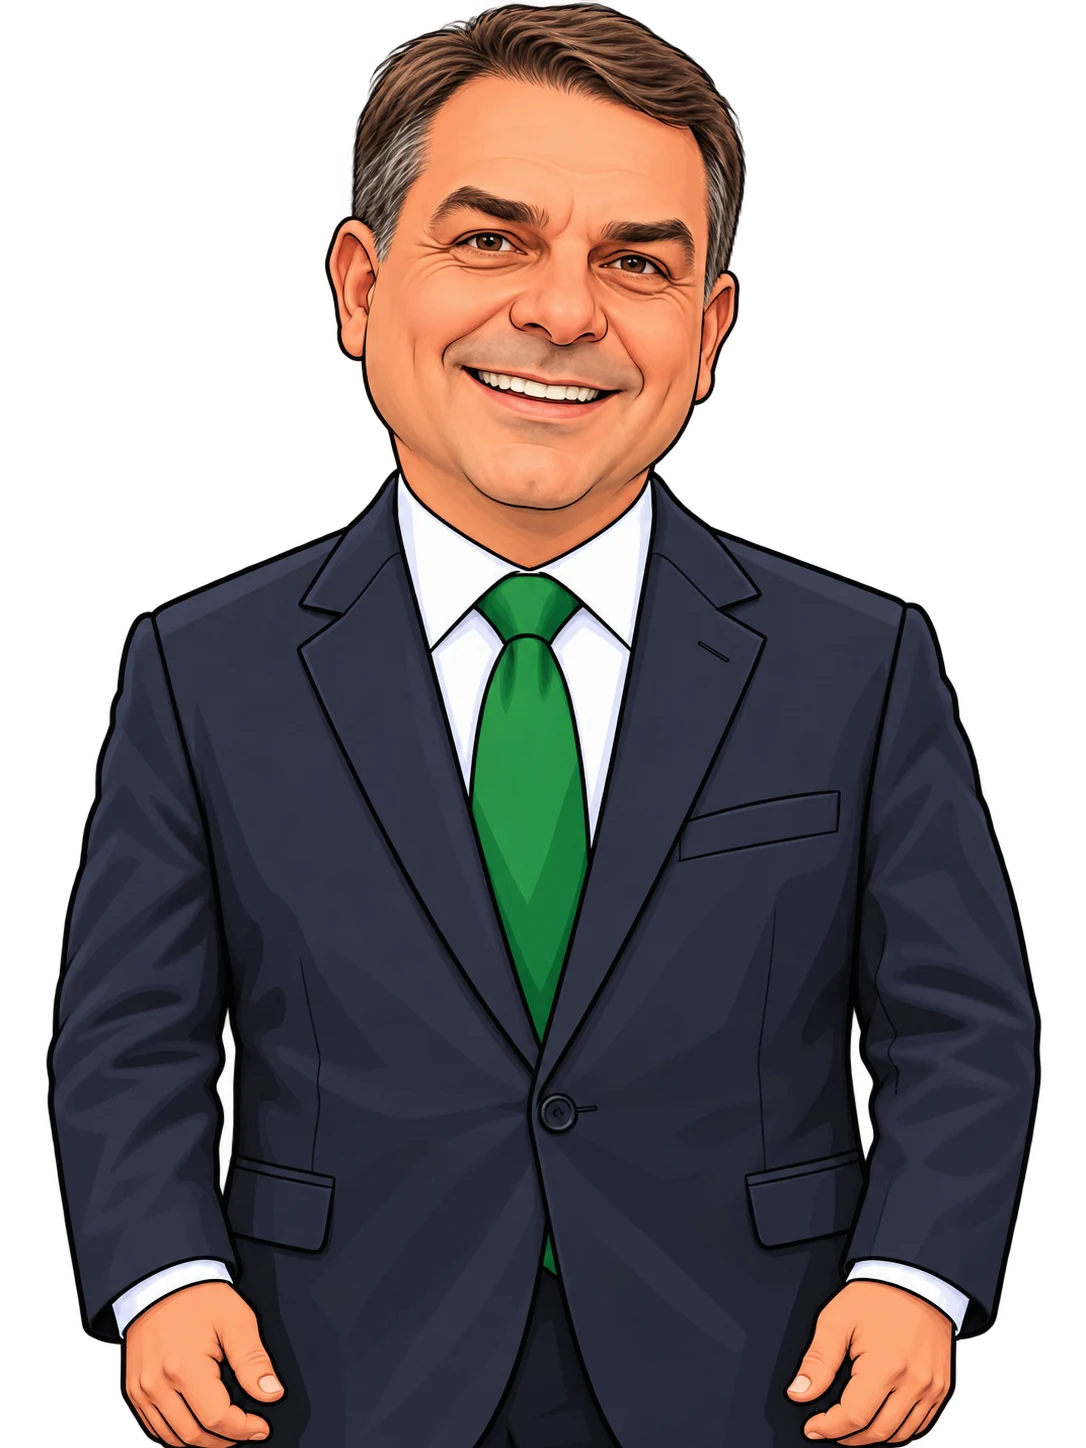
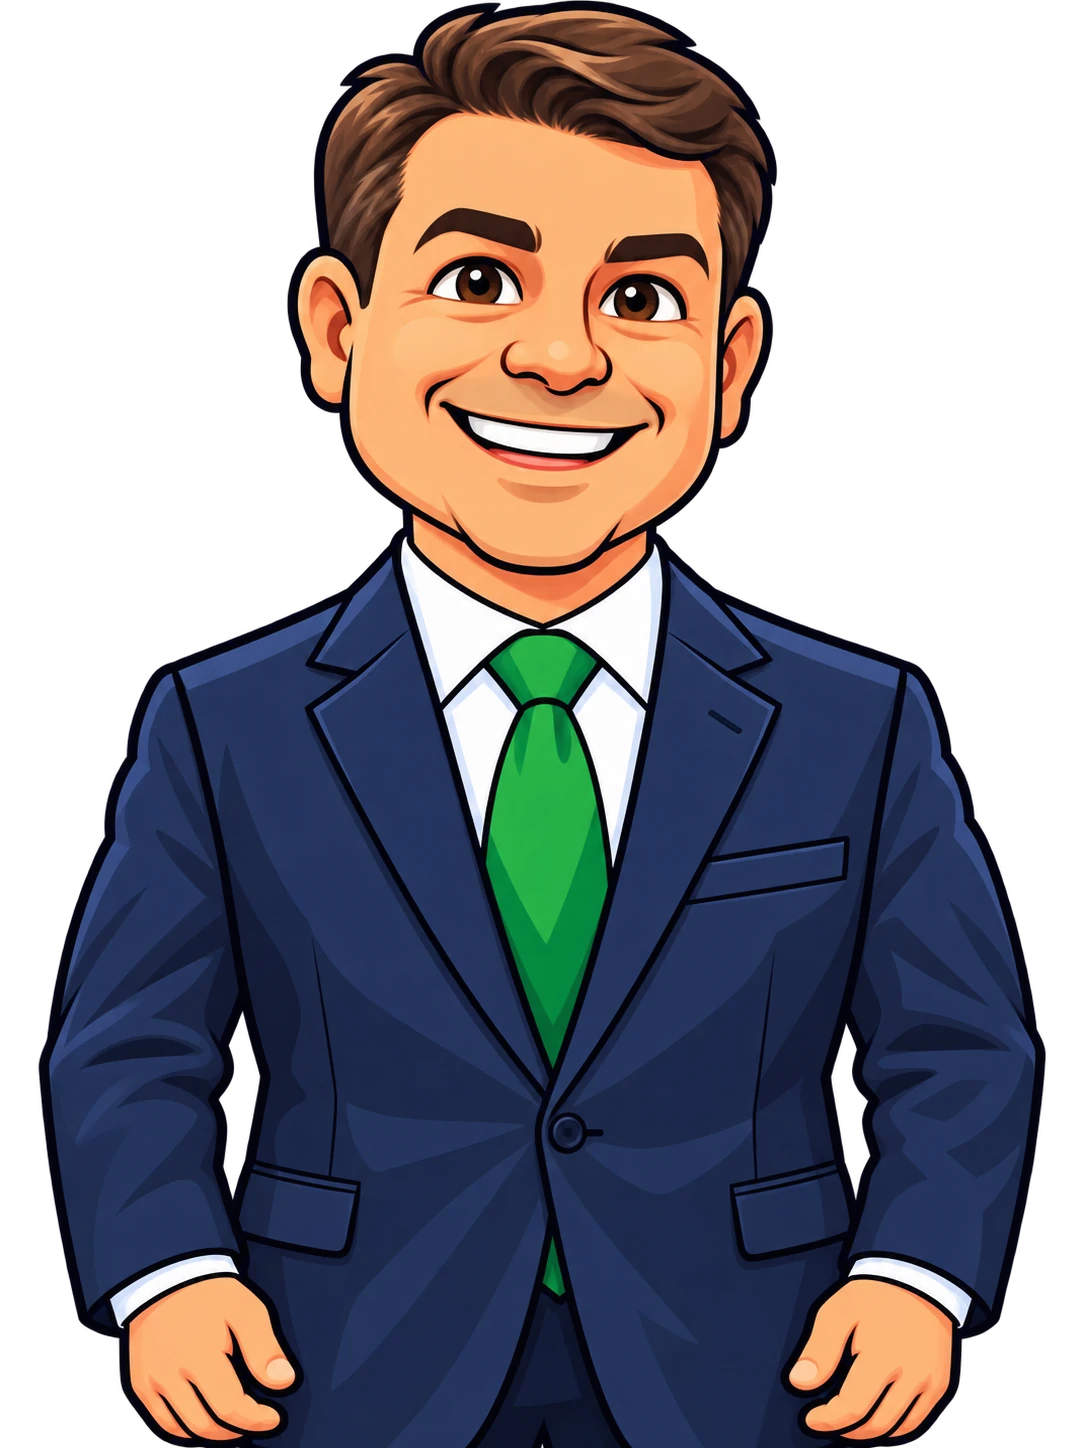
[urna] Removido 13/22 da tela, lado pela rosa e caricaturas em cartoon

diff --git a/app/jogos/urna/tela.js b/app/jogos/urna/tela.js
@@ -36,23 +36,21 @@ const Tela = {
       cartao.innerHTML = `
         <div class="retrato"><img class="arte" alt=""></div>
         <div class="lider">NA FRENTE</div>
-        <div class="identidade"><span class="numero"></span><span class="nome"></span></div>
+        <div class="identidade"><span class="nome"></span></div>
         <div class="votos"><b class="votos-num">0</b><small class="votos-rot">pontos</small></div>
         <div class="pct"><b>50</b><small>%</small></div>
         <ol class="top"></ol>`;
       cartao.querySelector(".arte").src = this.artes[i];
-      cartao.querySelector(".numero").innerHTML = numeroHtml(c.numero);
       cartao.querySelector(".nome").textContent = c.nome.toUpperCase();
     });
-    p.querySelector(".cabo-a b").innerHTML = numeroHtml(candidatos[0].numero);
-    p.querySelector(".cabo-b b").innerHTML = numeroHtml(candidatos[1].numero);
+    p.querySelector(".cabo-a b").innerHTML = marca(candidatos[0]);
+    p.querySelector(".cabo-b b").innerHTML = marca(candidatos[1]);
 
     /* Cada chave fica em cima da urna do seu lado: quem chega na live vê
        qual presente e qual comentário votam em quem sem procurar. */
     p.querySelector(".chaves").innerHTML = candidatos.map((c, i) => `
       <div class="chave chave-${"ab"[i]}">
         <i class="chave-icone">${iconeDoPresente(c.presente)}</i>
-        <span class="chave-texto"><span><b>${numeroHtml(c.numero)}</b></span></span>
       </div>`).join("")
       + `<div class="chave-comente">ou comente <b class="a">VERMELHO</b> ou <b class="b">VERDE</b> no chat para participar</div>`;
 
@@ -136,14 +134,14 @@ const Tela = {
     const frente = p.querySelector(".frente");
     const dif = Math.abs(urna.votos[0] - urna.votos[1]);
     if (lider >= 0) {
-      frente.innerHTML = `<b class="${"ab"[lider]}">${numeroHtml(cand[lider].numero)}</b> NA FRENTE`;
+      frente.innerHTML = `<b class="${"ab"[lider]}">${marca(cand[lider])}</b> NA FRENTE`;
       p.querySelector(".diferenca").textContent = `+${fmt(dif)} de vantagem`;
     } else {
       frente.innerHTML = total ? "EMPATE" : "VOTAÇÃO ABERTA";
       p.querySelector(".diferenca").textContent = "";
     }
     p.dataset.lider = lider;
-    p.querySelector(".serie").innerHTML = `<small>VITÓRIAS</small><span><b class="a">${numeroHtml(cand[0].numero)}</b><em>${urna.serie[0]}</em><i>×</i><em>${urna.serie[1]}</em><b class="b">${numeroHtml(cand[1].numero)}</b></span>`;
+    p.querySelector(".serie").innerHTML = `<small>VITÓRIAS</small><span><b class="a">${marca(cand[0])}</b><em>${urna.serie[0]}</em><i>×</i><em>${urna.serie[1]}</em><b class="b">${marca(cand[1])}</b></span>`;
   },
 
   /* ───────────── acontecimentos ───────────── */
@@ -153,8 +151,8 @@ const Tela = {
     for (const a of lista) {
       if (a.tipo === "voto") this.voto(a);
       else if (a.tipo === "virada") this.emSeguida(() => this.virada(a), 2300);
-      else if (a.tipo === "pendente") this.aviso(`<b>${escapar(a.quem.nick)}</b>, comente <b class="a">${numeroHtml(this.candidatos[0].numero)}</b> ou <b class="b">${numeroHtml(this.candidatos[1].numero)}</b>`);
-      else if (a.tipo === "comentouPresente") this.aviso(`<b>${escapar(a.quem.nick)}</b> escolheu o <b class="${"ab"[a.lado]}">${numeroHtml(this.candidatos[a.lado].numero)}</b>`);
+      else if (a.tipo === "pendente") this.aviso(`<b>${escapar(a.quem.nick)}</b>, comente <b class="a">${COR_DO_LADO[0]}</b> ou <b class="b">${COR_DO_LADO[1]}</b>`);
+      else if (a.tipo === "comentouPresente") this.aviso(`<b>${escapar(a.quem.nick)}</b> escolheu o <b class="${"ab"[a.lado]}">${COR_DO_LADO[a.lado]}</b>`);
     }
     this.placar(urna);
   },
@@ -169,7 +167,7 @@ const Tela = {
     if (presente || a.fonte === "seguiu") this.bolha(a);
     const v = Math.round(a.votos);
     const c = this.candidatos[a.lado];
-    this.ultimo(`${avatar(a.quem)}<span class="nick">${escapar(a.quem.nick)}</span><span class="mais">+${fmt(v)} ${v === 1 ? "ponto" : "pontos"} para</span><b>${numeroHtml(c.numero)}</b>`,
+    this.ultimo(`${avatar(a.quem)}<span class="nick">${escapar(a.quem.nick)}</span><span class="mais">+${fmt(v)} ${v === 1 ? "ponto" : "pontos"} para</span><b>${marca(c)}</b>`,
       `lado-${"ab"[a.lado]}${a.massa ? " em-massa" : ""}`);
     if (a.massa) this.emSeguida(() => this.massa(a), 2300);
   },
@@ -240,7 +238,7 @@ const Tela = {
       <div class="massa-texto">
         <span class="massa-titulo">SUPER APOI0!</span>
         <span class="massa-quem">${avatar(a.quem)}<b>${escapar(a.quem.nick)}</b></span>
-        <span class="massa-votos">+${fmt(v)} pontos para <b>${numeroHtml(c.numero)}</b></span>
+        <span class="massa-votos">+${fmt(v)} pontos para <b>${marca(c)}</b></span>
       </div>`;
     void el.offsetWidth;
     el.classList.add("ativa");
@@ -255,7 +253,7 @@ const Tela = {
     const el = this.palco.querySelector(".virada");
     const c = this.candidatos[a.lado];
     el.className = `virada lado-${"ab"[a.lado]}`;
-    el.innerHTML = `<div class="virada-flash"></div><div class="virada-faixa"><span class="virada-titulo">VIROU!</span><span class="virada-sub"><b>${numeroHtml(c.numero)}</b> ${escapar(c.nome.toUpperCase())} PASSOU NA FRENTE</span></div>`;
+    el.innerHTML = `<div class="virada-flash"></div><div class="virada-faixa"><span class="virada-titulo">VIROU!</span><span class="virada-sub"><b>${marca(c)}</b> ${escapar(c.nome.toUpperCase())} PASSOU NA FRENTE</span></div>`;
     void el.offsetWidth;
     el.classList.add("ativa");
     clearTimeout(this.timerVirada);
@@ -300,7 +298,7 @@ const Tela = {
         <div class="apu-linha apu-${"ab"[i]}">
           <div class="apu-foto"><img src="${this.artes[i]}" alt=""></div>
           <div class="apu-corpo">
-            <div class="apu-nome"><b>${numeroHtml(c.numero)}</b><span>${escapar(c.nome.toUpperCase())}</span><em class="apu-pct">0,00%</em></div>
+            <div class="apu-nome"><b>${marca(c)}</b><span>${escapar(c.nome.toUpperCase())}</span><em class="apu-pct">0,00%</em></div>
             <div class="apu-barra"><i></i></div>
             <div class="apu-votos">0 pontos</div>
           </div>
@@ -357,7 +355,7 @@ const Tela = {
         <div class="eleito-palco"><img class="eleito-arte" src="${this.artes[r.vencedor]}" alt=""></div>
         <div class="eleito-texto">
           <div class="eleito-titulo">VENCEU!</div>
-          <div class="eleito-nome"><b>${numeroHtml(c.numero)}</b><span>${escapar(c.nome.toUpperCase())}</span></div>
+          <div class="eleito-nome"><b>${marca(c)}</b><span>${escapar(c.nome.toUpperCase())}</span></div>
           <div class="eleito-dados"><b>${r.porcentagens[r.vencedor]}%</b> dos pontos · ${fmt(r.votos[r.vencedor])} pontos</div>
           ${r.mvp ? `<div class="eleito-mvp"><span class="mvp-selo">DESTAQUE</span>${avatar(r.mvp)}<b>${escapar(r.mvp.nick)}</b><em>${fmt(r.mvp.votos)} pontos</em></div>` : ""}
           <div class="eleito-proxima"></div>
@@ -374,7 +372,7 @@ const Tela = {
         <div class="empate-artes">${cand.map((c, i) => `<img class="empate-arte empate-${"ab"[i]}" src="${this.artes[i]}" alt="">`).join("")}</div>
         <div class="eleito-texto">
           <div class="eleito-titulo">EMPATE TÉCNICO</div>
-          <div class="eleito-nome"><b class="a">${numeroHtml(cand[0].numero)}</b><span>${fmt(r.votos[0])} × ${fmt(r.votos[1])}</span><b class="b">${numeroHtml(cand[1].numero)}</b></div>
+          <div class="eleito-nome"><b class="a">${marca(cand[0])}</b><span>${fmt(r.votos[0])} × ${fmt(r.votos[1])}</span><b class="b">${marca(cand[1])}</b></div>
           <div class="eleito-dados">A rodada terminou empatada</div>
           <div class="eleito-proxima"></div>
         </div>`;
@@ -443,14 +441,12 @@ const Tela = {
   },
 };
 
-/* O último dígito do número vai como imagem pintada com a cor do texto:
-   na tela continua lendo 13 e 22. */
-const LARGURA_DIGITO = { 0: .5075, 1: .275, 2: .49, 3: .5025, 4: .51, 5: .515, 6: .4975, 7: .485, 8: .5, 9: .5 };
-function numeroHtml(numero) {
-  const ultimo = numero.slice(-1);
-  const imagem = `url(arte/digitos/${ultimo}.png)`;
-  return `${numero.slice(0, -1)}<var class="digito" style="-webkit-mask-image:${imagem};mask-image:${imagem};width:${LARGURA_DIGITO[ultimo]}em"></var>`;
+/* Número de político na tela derruba a live: cada lado aparece pela rosa
+   dele e, no texto corrido, pela cor que o chat comenta. */
+function marca(cand) {
+  return `<span class="marca">${iconeDoPresente(cand.presente)}</span>`;
 }
+const COR_DO_LADO = ["VERMELHO", "VERDE"];
 
 function fmt(n) { return Math.round(n).toLocaleString("pt-BR"); }
 

diff --git a/app/jogos/urna/urna.css b/app/jogos/urna/urna.css
@@ -165,10 +165,6 @@ b.b, .b { color: var(--b); }
 @keyframes pula { 0% { transform: translateY(0) scale(1); } 35% { transform: translateY(-16px) scale(1.04, .97); } 100% { transform: none; } }
 
 .identidade { position: absolute; left: 26px; top: 26px; display: flex; flex-direction: column; align-items: flex-start; gap: 8px; }
-.numero { font: 900 128px/0.8 var(--display); color: #fff; padding: 14px 20px 6px; border-radius: 26px;
-  background: linear-gradient(180deg, color-mix(in srgb, var(--cor) 80%, #fff), var(--cor) 60%, color-mix(in srgb, var(--cor) 70%, #000));
-  box-shadow: 0 10px 0 color-mix(in srgb, var(--cor) 55%, #000), 0 18px 30px rgba(0,0,0,.45); text-shadow: 0 4px 0 rgba(0,0,0,.25); }
-.cartao-b .numero { color: var(--amarelo); }
 .nome { margin-top: 6px; font: 900 56px/1 var(--display); letter-spacing: .03em; text-shadow: 0 3px 10px rgba(0,0,0,.6); }
 
 .lider { position: absolute; right: 22px; top: 248px; z-index: 2; padding: 9px 16px 8px; border-radius: 12px;
@@ -237,22 +233,20 @@ b.b, .b { color: var(--b); }
 /* Qual presente vota em quem, cada um em cima da urna do seu lado. */
 .chaves { position: absolute; left: 30px; right: 30px; top: calc(946px + var(--sobra) * .32);
   display: grid; grid-template-columns: 1fr 1fr; gap: 14px 24px; }
-.chave { display: flex; align-items: center; gap: 16px; height: 168px; padding: 0 16px 0 14px; border-radius: 34px; overflow: hidden;
+.chave { display: flex; align-items: center; justify-content: center; height: 168px; border-radius: 34px; overflow: hidden;
   border: 4px solid var(--cor); box-shadow: 0 14px 30px rgba(0,0,0,.45);
   background: linear-gradient(180deg, color-mix(in srgb, var(--cor) 60%, #0A1433), color-mix(in srgb, var(--cor) 28%, #050A1E)); }
-.digito { display: inline-block; height: .81em; vertical-align: baseline; background: currentColor;
-  -webkit-mask-size: 100% 100%; mask-size: 100% 100%; -webkit-mask-repeat: no-repeat; mask-repeat: no-repeat; }
+.marca { display: inline-flex; align-items: center; justify-content: center; font-style: normal; line-height: 1;
+  filter: drop-shadow(0 2px 3px rgba(0,0,0,.45)); }
+.marca .icone-presente { height: 1em; width: auto; }
 
 .chave-a { --cor: var(--a); } .chave-b { --cor: var(--b); }
-.chave-icone { flex: none; width: 132px; height: 132px; display: grid; place-items: center; border-radius: 50%;
-  font: normal 100px/1 var(--texto); background: radial-gradient(circle, rgba(255,255,255,.2), rgba(255,255,255,0) 70%); }
-.chave-icone .icone-presente { width: 128px; height: 128px; filter: drop-shadow(0 4px 6px rgba(0,0,0,.5)); }
-.chave-texto { flex: 1; min-width: 0; display: flex; flex-direction: column; align-items: flex-start; gap: 10px; }
-.chave-texto span { display: flex; align-items: center; gap: 14px; font: 900 44px/1 var(--texto); text-transform: uppercase; color: #E3EAFF; white-space: nowrap; }
-.chave-texto b { font: 900 84px/0.8 var(--display); padding: 10px 12px 2px; border-radius: 16px; color: #fff;
-  background: linear-gradient(180deg, color-mix(in srgb, var(--cor) 80%, #fff), var(--cor) 60%, color-mix(in srgb, var(--cor) 70%, #000));
-  box-shadow: 0 5px 0 color-mix(in srgb, var(--cor) 55%, #000); }
-.chave-b .chave-texto b { color: var(--amarelo); }
+.chave-icone { flex: none; width: 160px; height: 160px; display: grid; place-items: center; border-radius: 50%;
+  font: normal 120px/1 var(--texto); background: radial-gradient(circle, rgba(255,255,255,.28), rgba(255,255,255,0) 68%);
+  animation: chave-pulsa 2.4s ease-in-out infinite; }
+.chave-b .chave-icone { animation-delay: -1.2s; }
+.chave-icone .icone-presente { width: 150px; height: 150px; filter: drop-shadow(0 6px 10px rgba(0,0,0,.55)); }
+@keyframes chave-pulsa { 50% { transform: scale(1.08) rotate(-4deg); } }
 .chave-comente { grid-column: 1 / -1; justify-self: center; padding: 8px 26px 7px; border-radius: 30px;
   background: rgba(8, 16, 42, .85); border: 2px solid rgba(255,255,255,.16); font: 800 38px/1 var(--texto); white-space: nowrap; }
 .chave-comente b { font: 900 48px/0.8 var(--display); }
@@ -467,7 +461,6 @@ b.b, .b { color: var(--b); }
 .horizontal .retrato { left: 0; right: 0; width: auto; height: 560px; }
 .horizontal .retrato img { left: 50%; width: 440px; margin-left: -220px; top: 120px; }
 .horizontal .identidade { flex-direction: row; align-items: flex-end; gap: 16px; }
-.horizontal .numero { font-size: 120px; }
 .horizontal .nome { font-size: 60px; margin: 0 0 6px; }
 .horizontal .lider { top: 500px; left: auto; right: 24px; }
 .horizontal .votos { top: 590px; }
@@ -480,12 +473,9 @@ b.b, .b { color: var(--b); }
 .horizontal .ultimos .av { width: 40px; height: 40px; }
 .horizontal .ultimos li > b, .horizontal .ultimos .texto b.a, .horizontal .ultimos .texto b.b { font-size: 38px; }
 .horizontal .chaves { left: 470px; right: 470px; top: 872px; gap: 8px 20px; }
-.horizontal .chave { height: 124px; gap: 12px; }
-.horizontal .chave-icone { width: 104px; height: 104px; font-size: 78px; }
-.horizontal .chave-icone .icone-presente { width: 100px; height: 100px; }
-.horizontal .chave-texto { gap: 8px; }
-.horizontal .chave-texto span { font-size: 38px; }
-.horizontal .chave-texto b { font-size: 66px; }
+.horizontal .chave { height: 124px; }
+.horizontal .chave-icone { width: 118px; height: 118px; font-size: 90px; }
+.horizontal .chave-icone .icone-presente { width: 112px; height: 112px; }
 .horizontal .chave-comente { padding: 6px 22px 5px; font-size: 30px; }
 .horizontal .chave-comente b { font-size: 40px; }
 .horizontal .massa { top: 330px; left: 460px; right: 460px; }

diff --git a/app/jogos/urna/urnas.js b/app/jogos/urna/urnas.js
@@ -1,26 +1,8 @@
 /* As duas urnas no canvas da mesa: o desenho da urna brasileira e a mão que
-   digita o número do lado (1-3 / 2-2) e aperta CONFIRMA a cada voto. A urna
+   aperta CONFIRMA a cada voto (sem digitar número, que derruba a live). A urna
    é desenhada em unidades próprias (corpo 1000×760) e escalada pro espaço
    do formato. */
 "use strict";
-
-/* Mesmo esquema da tela: o último dígito do número é imagem, pintada na cor do lado. */
-function pintarDigito(digito, cor) {
-  const tela = document.createElement("canvas");
-  tela.width = 0;
-  const img = new Image();
-  img.onload = () => {
-    tela.width = img.width;
-    tela.height = img.height;
-    const c = tela.getContext("2d");
-    c.drawImage(img, 0, 0);
-    c.globalCompositeOperation = "source-in";
-    c.fillStyle = cor;
-    c.fillRect(0, 0, tela.width, tela.height);
-  };
-  img.src = `arte/digitos/${digito}.png`;
-  return tela;
-}
 
 const TECLA_MOVE = 150;
 const TECLA_APERTA = 120;
@@ -127,7 +109,7 @@ const Urnas = {
       const img = new Image();
       img.src = (artes && artes[lado]) || cand.arte;
       return {
-        lado, cand, img, digitos: cand.numero.split(""), digitoFinal: pintarDigito(cand.numero.slice(-1), cand.cor),
+        lado, cand, img,
         fila: [], atual: null, tela: "pronta", digitado: 0, fimAte: 0, fimVotos: 0,
         treme: 0, brilho: 0, acesas: {}, mao: { x: 810, y: 2000, escala: 1.08, aperto: 0 },
       };
@@ -198,7 +180,7 @@ const Urnas = {
   animar(e, t) {
     if (!e.atual && e.fila.length) {
       const rapido = e.fila.length > 1 ? 0.72 : 1;
-      e.atual = { ...e.fila.shift(), inicio: t, r: rapido, alvos: [...e.digitos, "CONFIRMA"], tocou: {}, deX: e.mao.x, deY: e.mao.y };
+      e.atual = { ...e.fila.shift(), inicio: t, r: rapido, alvos: ["CONFIRMA"], tocou: {}, deX: e.mao.x, deY: e.mao.y };
       e.tela = "digitando";
       e.digitado = 0;
     }
@@ -388,48 +370,25 @@ const Urnas = {
     c.font = "900 92px 'Big Shoulders Display', Impact, sans-serif";
     c.fillText("PARTICIPANTE", X + 20, Y + 142);
 
-    const pronto = e.tela === "pronta" || e.digitado >= e.digitos.length;
     c.fillStyle = "#3A3A3A";
     c.font = "800 40px Figtree, sans-serif";
-    c.fillText("Número:", X + 22, Y + 260);
-    for (let i = 0; i < e.digitos.length; i++) {
-      const bx = X + 196 + i * 132, by = Y + 168;
-      arred(c, bx, by, 118, 146, 8);
-      c.fillStyle = "#FFFFFF";
-      c.fill();
-      c.lineWidth = 5;
-      c.strokeStyle = "#1E1E1E";
-      c.stroke();
-      const visivel = e.tela === "pronta" || i < e.digitado;
-      if (visivel) {
-        const final = e.digitoFinal;
-        if (i === e.digitos.length - 1 && final.width) {
-          const h = 138 * 0.81, w = h * final.width / final.height;
-          c.drawImage(final, bx + 59 - w / 2, by + 124 - h, w, h);
-        } else {
-          c.fillStyle = cor;
-          c.textAlign = "center";
-          c.font = "900 138px 'Big Shoulders Display', Impact, sans-serif";
-          c.fillText(e.digitos[i], bx + 59, by + 124);
-          c.textAlign = "left";
-        }
-      } else if (i === e.digitado && Math.floor(t / 260) % 2 === 0) {
-        c.fillStyle = "#1E1E1E";
-        c.fillRect(bx + 30, by + 120, 58, 8);
-      }
-    }
+    c.fillText("Lado:", X + 22, Y + 260);
+    const lado = COR_DO_LADO[e.lado];
+    c.fillStyle = cor;
+    c.font = "900 120px 'Big Shoulders Display', Impact, sans-serif";
+    const cabe = Math.min(1, (W - 162) / c.measureText(lado).width);
+    c.font = `900 ${Math.floor(120 * cabe)}px 'Big Shoulders Display', Impact, sans-serif`;
+    c.fillText(lado, X + 140, Y + 286);
 
-    if (pronto) {
-      if (e.cand.nome) {
-        c.fillStyle = "#3A3A3A";
-        c.font = "800 40px Figtree, sans-serif";
-        c.fillText("Nome:", X + 22, Y + 420);
-        c.fillStyle = "#111";
-        c.font = "900 84px 'Big Shoulders Display', Impact, sans-serif";
-        c.fillText(e.cand.nome.toUpperCase(), X + 22, Y + 498);
-      }
-      this.desenharRetrato(c, e, X + 446, Y + 420, 88);
+    if (e.cand.nome) {
+      c.fillStyle = "#3A3A3A";
+      c.font = "800 40px Figtree, sans-serif";
+      c.fillText("Nome:", X + 22, Y + 420);
+      c.fillStyle = "#111";
+      c.font = "900 84px 'Big Shoulders Display', Impact, sans-serif";
+      c.fillText(e.cand.nome.toUpperCase(), X + 22, Y + 498);
     }
+    this.desenharRetrato(c, e, X + 446, Y + 420, 88);
 
     c.fillStyle = "#CFD2CB";
     c.fillRect(X + 18, Y + 532, W - 36, 4);
